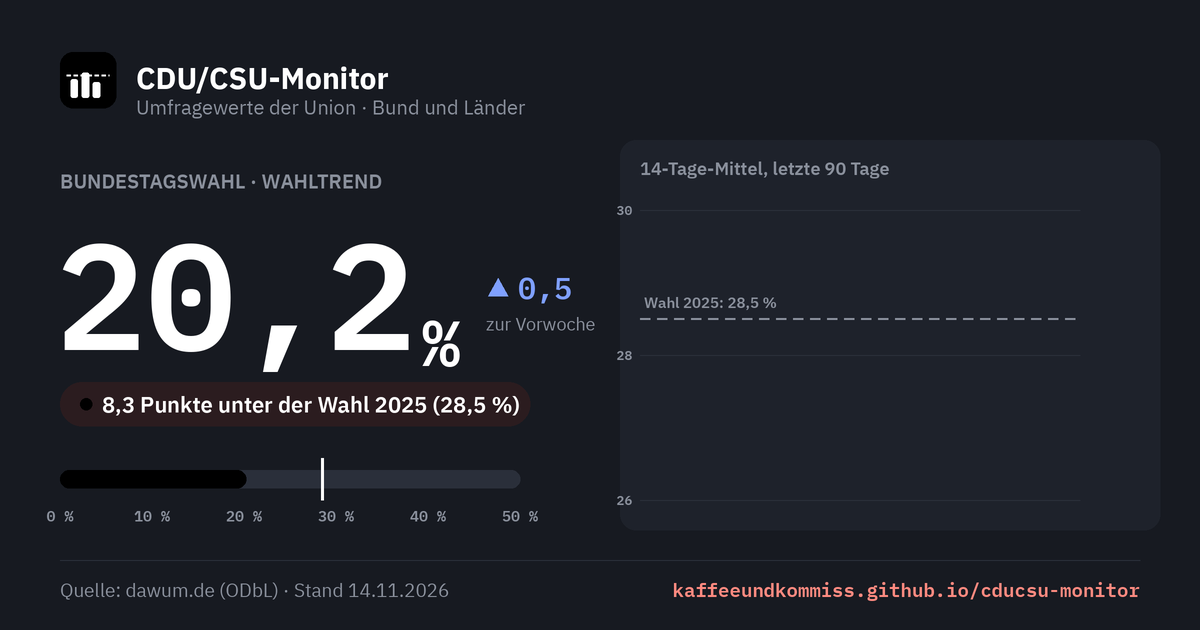
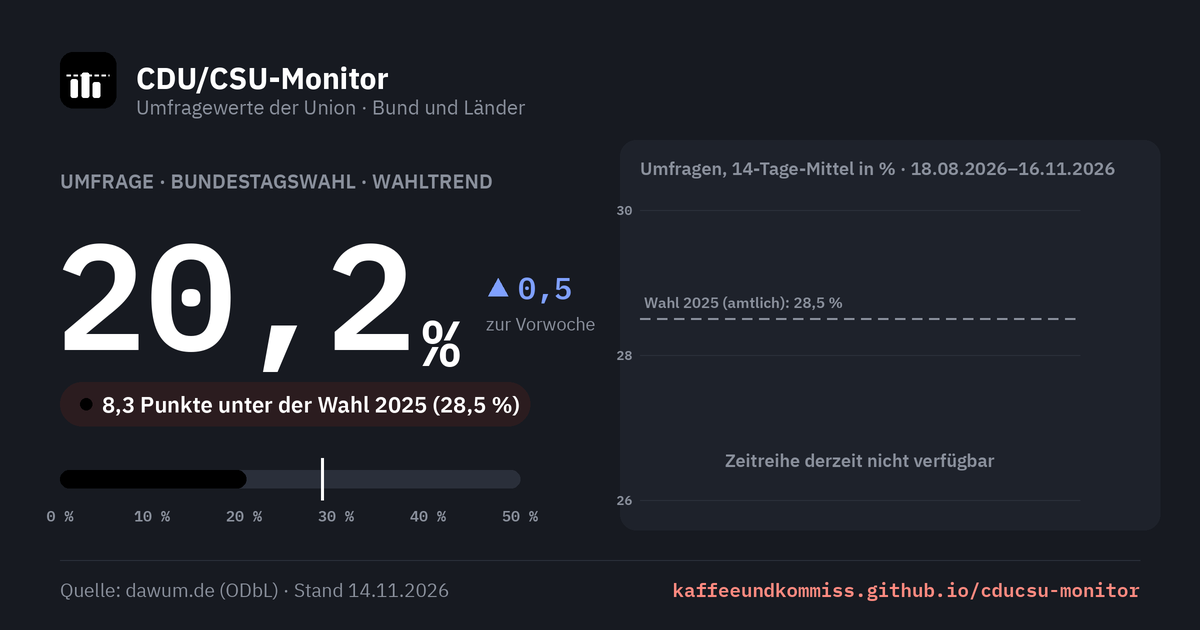
Diagramme eindeutig beschriften: Umfrage, amtliches Ergebnis, Chronik
Kennzeichen je Diagramm, Einheit, Zeitraum und Stand; Vorschaubilder
(og/make-og.py) mit derselben Kennzeichnung, damit das wöchentliche
Update die Beschriftung nicht überschreibt.

Claude-Session: https://claude.ai/code/session_01AuP7hKA5r64Vaqp6wB3yAR

diff --git a/index.html b/index.html
@@ -133,6 +133,9 @@
   .liste .lkopf{display:flex;justify-content:space-between;align-items:baseline;padding-bottom:8px;border-bottom:1px solid var(--line)}
   .liste .lkopf h3{margin:0;font-size:15px;font-weight:600}
   .liste .lkopf .skl{font-size:13px;color:var(--mute)}
+  .liste .llegende{margin:8px 0 0;font-size:13px;color:var(--mute)}
+  .abschnitt-legende{margin:6px 0 0;font-size:13px;color:var(--mute);max-width:46em}
+  .kachel .wart{font-size:12px;font-weight:600;color:var(--mute);margin-top:6px}
   .inst-zeile{display:grid;grid-template-columns:150px 1fr 60px;align-items:center;gap:14px;padding:7px 0;border-bottom:1px solid var(--hair)}
   .inst-zeile .nam{font-weight:500;font-size:14px;white-space:nowrap;overflow:hidden;text-overflow:ellipsis}
   .inst-zeile .dat{font-family:var(--mono);font-size:13px;color:var(--mute)}
@@ -240,7 +243,7 @@
   }
 .einstieg{margin:0 0 -20px;max-width:40em;color:var(--mute);font-size:16px;line-height:1.5}
 </style>
-<link rel="stylesheet" href="bereich.css?v=2">
+<link rel="stylesheet" href="bereich.css?v=3">
 </head>
 <body>
 <div class="kk-leiste"><div class="kk-in">
@@ -280,23 +283,28 @@
   <section id="bund-hero" aria-labelledby="bund-titel" data-teilen="Bundestagswahl"></section>
 
   <section id="bund-verlauf" class="karte verlauf" aria-labelledby="verlauf-titel" data-teilen="Zeitverlauf Bund" hidden>
+    <span class="art umfrage">Umfragen</span>
     <h2 id="verlauf-titel">CDU/CSU im Zeitverlauf · Bund</h2>
     <p class="sub" id="verlauf-sub">Punkte: Einzelumfragen · Linie: 14-Tage-Mittel</p>
     <div id="verlauf-chart" class="fv-chart"></div>
-    <p class="fv-quelle">Quelle: <a href="https://dawum.de/Bundestag/" rel="noopener">dawum.de</a> · 14-Tage-Mittel ungewichtet</p>
+    <p class="fv-quelle" id="verlauf-quelle">Quelle: <a href="https://dawum.de/Bundestag/" rel="noopener">dawum.de</a> (ODbL) · 14-Tage-Mittel ungewichtet</p>
   </section>
 
   <section id="anstehend" aria-labelledby="anstehend-titel" data-teilen="Anstehende Wahlen">
+    <span class="art umfrage">Umfragen</span>
     <div class="kopfzeile">
       <h2 id="anstehend-titel">Anstehende Wahlen</h2>
       <span class="hint">nächster Termin zuerst</span>
     </div>
+    <p class="abschnitt-legende">Große Zahl: Umfragewert in % (Wahltrend, sonst Ø der neuesten Umfrage je Institut), kein Ergebnis. Balken 0–50 %, gestrichelt: amtliches Ergebnis der letzten Wahl im Land.</p>
     <div class="kacheln" id="anstehend-grid" style="margin-top:16px"></div>
-    <p class="quelle">Quelle: <a href="https://dawum.de" rel="noopener">dawum.de</a> (ODbL) · ohne Wahltrend: Ø der neuesten Umfrage je Institut · Vergleich: amtliches Ergebnis der letzten Wahl im Land</p>
+    <p class="quelle">Quelle: <a href="https://dawum.de" rel="noopener">dawum.de</a> (ODbL) · ohne Wahltrend: Ø der neuesten Umfrage je Institut · Vergleich: amtliches Ergebnis der letzten Wahl im Land<span id="anstehend-stand"></span></p>
   </section>
 
   <section id="gelaufen" aria-labelledby="gelaufen-titel" data-teilen="Gelaufene Wahlen" data-quelle="amtliche Endergebnisse der Landeswahlleitungen" hidden>
+    <span class="art amtlich">Amtliche Ergebnisse</span>
     <div class="kopfzeile"><h2 id="gelaufen-titel">Gelaufene Wahlen</h2></div>
+    <p class="abschnitt-legende">Amtliche Endergebnisse in %, Quelle je Zeile. Zur Vorwahl: Veränderung in Prozentpunkten. Balken 0–50 %, gestrichelt: Ergebnis der Wahl davor.</p>
     <div class="karte tabelle" id="gelaufen-tabelle" style="margin-top:16px"></div>
   </section>
 </main>
@@ -480,6 +488,10 @@
     return '';
   }
 
+  // Kennzeichen über jedem Diagramm: Umfrage oder amtliches Ergebnis (Gestaltung in bereich.css).
+  const artMarke = (art) => art === 'amtlich'
+    ? '<span class="art amtlich">Amtliches Ergebnis</span>' : '<span class="art umfrage">Umfragen</span>';
+
   const gruppen = gruppiereEbenen(data.ebenen || [], NOW);
 
   // ---------- Bund-Hero ----------
@@ -506,6 +518,7 @@
 
     heroEl.innerHTML = `<div class="karte hero">
       <div class="zahlen">
+        ${artMarke(lz.art === 'ergebnis' ? 'amtlich' : 'umfrage')}
         <h2 class="ueberschrift" id="bund-titel">${esc(bund.name)} · ${
           lz.art === 'trend' ? 'Wahltrend' : lz.art === 'ergebnis' ? 'Amtliches Ergebnis' : 'Ø der Umfragen'}</h2>
         <div class="leitzahl">
@@ -521,7 +534,7 @@
             ${balken(lz.wert, ref, (ref ? '<div class="marklbl">Wahl ' + esc(ref.jahr) + ': ' + pz(ref.wert) + '</div>' : '') + punkte)}
           </div>
           <div class="achse"><span>0 %</span><span>10 %</span><span>20 %</span><span>30 %</span><span>40 %</span><span>50 %</span></div>
-          <div class="legende">Balken: ${lz.art === 'trend' ? 'Wahltrend' : 'Leitzahl'} · Punkte: Einzelumfragen${ref ? ' · gestrichelt: Ergebnis der Wahl ' + esc(ref.jahr) : ''}</div>
+          <div class="legende">Angaben in %. Balken: ${lz.art === 'trend' ? 'Wahltrend (Umfragen)' : lz.art === 'ergebnis' ? 'amtliches Ergebnis' : 'Ø der Umfragen'} · Punkte: Einzelumfragen${ref ? ' · gestrichelt: amtliches Ergebnis der Wahl ' + esc(ref.jahr) : ''}</div>
         </div>
         <dl class="kennzahlen">
           <div><dt>Ø neueste Umfrage je Institut</dt><dd>${lz.avg == null ? '–' : pz(lz.avg)}</dd></div>
@@ -539,6 +552,7 @@
           <div class="lkopf">
             <h3>Neueste Umfrage je Institut</h3><span class="skl">Skala 0–50 %</span>
           </div>
+          <p class="llegende">Balken: Umfragewert in %${ref ? ' · gestrichelt: amtliches Ergebnis der Wahl ' + esc(ref.jahr) : ''}</p>
           ${rows.length ? rows.slice().sort((a, b) => (b.datum || '').localeCompare(a.datum || '')).map((r) =>
             `<div class="inst-zeile">
                <div><div class="nam">${esc(r.institut)}</div><div class="dat">${dfmt(r.datum)}</div></div>
@@ -584,8 +598,17 @@
     }
     const linie = gleitendesMittel(punkte, FENSTER);
     const sub = document.getElementById('verlauf-sub');
-    if(sub) sub.textContent = `Letzte ${TAGE} Tage · Punkte: Einzelumfragen · `
-      + `Linie: ${FENSTER}-Tage-Mittel`;
+    // Zeitraum und Stand als Datum, nicht nur "letzte 90 Tage": ein Screenshot muss
+    // auch Wochen später noch sagen, welches Fenster er zeigt.
+    const refV = vw(bund);
+    const bisT = NOW || new Date();
+    const vonT = new Date(Date.UTC(bisT.getUTCFullYear(), bisT.getUTCMonth(), bisT.getUTCDate()) - TAGE * 864e5);
+    const isoT = (t) => new Date(t).toISOString().slice(0, 10);
+    if(sub) sub.textContent = `Umfragewerte Bundestagswahl in %, ${dfmt(isoT(vonT))}–${dfmt(isoT(bisT))} `
+      + `(letzte ${TAGE} Tage) · Punkte: Einzelumfragen · Linie: ${FENSTER}-Tage-Mittel`
+      + (refV ? ` · gestrichelt: amtliches Ergebnis ${refV.jahr}` : '');
+    const vq = document.getElementById('verlauf-quelle');
+    if(vq) vq.append(` · letzte Umfrage vom ${dfmt(isoT(punkte[punkte.length - 1].t))}`);
 
     const NS = 'http://www.w3.org/2000/svg';
     const el = (n, a, eltern) => { const e = document.createElementNS(NS, n);
@@ -664,7 +687,7 @@
       // Beschriftung der letzten Wahl erst nach den Punkten zeichnen: so liegt ihr Hof
       // über den Umfragepunkten und die Angabe bleibt auch am Handy lesbar.
       if(ref) el('text', {x: ml + 4, y: Y(ref.wert) - 6, 'font-size': 12, 'font-weight': 600,
-        class: 'fv-frei', fill: 'var(--fv-vorwahl)'}, svg).textContent = 'Wahl ' + ref.jahr + ': ' + fmt(ref.wert) + ' %';
+        class: 'fv-frei', fill: 'var(--fv-vorwahl)'}, svg).textContent = 'Wahl ' + ref.jahr + ' (amtlich): ' + fmt(ref.wert) + ' %';
 
       const letzte = linie[linie.length - 1];
       el('text', {x: Math.min(X(letzte.t) + 6, W - 4), y: Y(letzte.v), dy: '0.32em',
@@ -758,6 +781,7 @@
         </div>
         ${tage != null ? `<span class="tage">in ${tage} T.</span>` : ''}
       </div>
+      <div class="wart">${lz.art === 'ergebnis' ? 'Amtliches Ergebnis' : lz.art === 'trend' ? 'Umfrage · Wahltrend' : 'Umfrage · Ø'}</div>
       <div class="wert">
         <span class="num">${lz.wert == null ? '–' : pz(lz.wert)}</span>
         <span class="pill ${h.status}">${esc(datenhinweis ? 'nicht ausgewiesen' : h.kurz)}</span>
@@ -780,8 +804,8 @@
     document.getElementById('gelaufen-tabelle').innerHTML = `<table>
       <thead><tr>
         <th>Wahl</th><th>Datum</th>
-        <th style="text-align:right">Ergebnis</th>
-        ${mitTrend ? '<th style="text-align:right">Letzter Trend</th>' : ''}
+        <th style="text-align:right">Ergebnis (amtl.)</th>
+        ${mitTrend ? '<th style="text-align:right">Letzter Wahltrend (Umfrage)</th>' : ''}
         <th class="vgl" style="text-align:right">Zur Vorwahl</th>
         <th class="abstand">Ergebnis und Vorwahl</th>
       </tr></thead>
@@ -798,7 +822,7 @@
         return `<tr id="zeile-${esc(e.id)}">
           <td class="wahl">${esc(teileName(e.name).land)}${beleg}</td>
           <td class="mono">${dfmt(e.wahltermin)}</td>
-          <td class="erg">${lz.wert != null ? pz(lz.wert) + (erg.vorlaeufig ? ' *' : '') : '–'}${vgl
+          <td class="erg">${lz.wert != null ? pz(lz.wert) + (lz.art !== 'ergebnis' ? ' (Umfrage)' : erg.vorlaeufig ? ' *' : '') : '–'}${vgl
             ? '<span class="vgl-kurz">' + vgl + ' zu ' + esc(vw(e).jahr) + '</span>' : ''}</td>
           ${mitTrend ? `<td class="trend">${t.wert != null ? pz(t.wert) : '–'}</td>` : ''}
           <td class="vgl" title="${vgl ? 'Wahl ' + esc(vw(e).jahr) + ': ' + pz(vw(e).wert) : ''}">${vgl || '–'}</td>
@@ -808,6 +832,13 @@
       ${gelaufen.some((e) => (e.wahlergebnis || {}).vorlaeufig)
         ? '<p class="basis" style="padding:0 20px 14px">* vorläufiges amtliches Ergebnis</p>' : ''}`;
   }
+
+  const standSeite = SNAP ? 'Momentaufnahme ' + kwText(SNAP) : data.erstellt ? 'Stand ' + dfmt(data.erstellt) : '';
+  const ast = document.getElementById('anstehend-stand');
+  // Die Kacheln zeigen live abgerufene Umfragen, wenn dawum erreichbar war – dann gilt deren Stand.
+  const liveStand = !SNAP && db && db.Database && db.Database.Last_Update;
+  if(ast) ast.textContent = liveStand ? ' · Umfragen live, Datenbank-Stand ' + dfmt(liveStand)
+    : standSeite ? ' · ' + standSeite : '';
 
   // Link- und Bild-Knöpfe erst jetzt: die Abschnitte sind gerendert, und ein #Anker
   // aus einem geteilten Link kann angesprungen werden.

diff --git a/partei-seite.js b/partei-seite.js
@@ -15,6 +15,8 @@
       .map((b) => `<a href="${esc(b.url)}" rel="noopener">${esc(b.name)}</a>`);
     const hinweis = (d.belege_hinweis || {})[k];
     const teile = [links.length ? 'Quelle: ' + links.join(' · ') : '', hinweis ? esc(hinweis) : ''].filter(Boolean);
+    if(teile.length && d.stand && ['wahlen', 'zeitleiste', 'vorsitz'].includes(k))
+      teile.push('· Stand ' + dfmt(d.stand) + ' (zuletzt geprüft)');
     if(teile.length) p.innerHTML = teile.join(' '); else p.remove();
   });
 
@@ -66,11 +68,15 @@
   if(k && $('kennzahlen')){
     const regierung = d.wahlen.filter((w) => w.rolle === 'Regierung').length;
     document.getElementById('kennzahlen').innerHTML = [
-      ['Bestes Ergebnis', fmt(k.best.ergebnis) + ' %', 'Bundestagswahl ' + k.best.jahr, ''],
-      ['Letztes Ergebnis', fmt(k.letzte.ergebnis) + ' %', 'Bundestagswahl ' + k.letzte.jahr + ' · ' + k.letzte.rolle, ''],
+      ['Bestes Ergebnis', fmt(k.best.ergebnis) + ' %', 'Bundestagswahl ' + k.best.jahr + ' · amtlich', ''],
+      ['Letztes Ergebnis', fmt(k.letzte.ergebnis) + ' %', 'Bundestagswahl ' + k.letzte.jahr + ' · amtlich · danach ' + k.letzte.rolle, ''],
       ['In Regierung danach', regierung + ' von ' + k.anzahl, 'Wahlperioden nach den Wahlen ' + d.wahlen[0].jahr + '–' + k.letzte.jahr, ''],
     ].map(([l, n, s, c]) => `<div class="karte"><div class="lbl">${esc(l)}</div><div class="num ${c}">${esc(n)}</div><div class="sub">${esc(s)}</div></div>`).join('');
   }
+
+  // ---------- Zeitraum je Diagramm (Titel/Untertitel) ----------
+  if((d.wahlen || []).length && $('wahlen-titel'))
+    $('wahlen-titel').textContent = 'Bundestagswahlen ' + d.wahlen[0].jahr + '–' + d.wahlen[d.wahlen.length - 1].jahr;
 
   // ---------- Bundesvorsitzende: Kennzahlen und Tabelle ----------
   // Laufende Amtszeit zählt bis heute, deshalb einmal beim Laden berechnet.
@@ -104,6 +110,7 @@
     const mt = 4, mb = 24, zh = 24, H = mt + zeiten.length * zh + mb;
     svg.setAttribute('viewBox', `0 0 ${W} ${H}`);
     const von = Date.UTC(Math.min(...zeiten.map((z) => new Date(z.a).getUTCFullYear())), 0, 1), bis = Math.max(...zeiten.map((z) => z.b));
+    if($('vorsitz-zeitraum')) $('vorsitz-zeitraum').textContent = 'Zeitraum ' + new Date(von).getUTCFullYear() + ' bis heute, x-Achse in Jahren. ';
     const X = (t) => ml + (t - von) / (bis - von) * (W - ml - mr);
     const tip = tooltip(host);
     const schritt = schmal ? 20 : 10;
@@ -127,7 +134,7 @@
   function wahlen(){
     const host = document.getElementById('chart-wahlen'); host.replaceChildren();
     const rows = d.wahlen, W = Math.max(280, host.clientWidth), H = 250, schmal = W < 420;
-    const ml = 30, mr = 6, mt = 22, mb = 26;
+    const ml = schmal ? 30 : 42, mr = 6, mt = 22, mb = 26;
     const yMax = Math.max(16, Math.ceil(Math.max(...rows.map((r) => r.ergebnis)) / 10) * 10);
     const band = (W - ml - mr) / rows.length, bw = Math.min(32, band * 0.62);
     const X = (i) => ml + i * band + band / 2, Y = (v) => H - mb - v / yMax * (H - mt - mb);
@@ -136,7 +143,7 @@
     const tip = tooltip(host);
     for(let v = 0; v <= yMax; v += 10){
       el('line', {x1: ml, x2: W - mr, y1: Y(v), y2: Y(v), stroke: 'var(--line)'}, svg);
-      txt(svg, {x: ml - 6, y: Y(v), dy: '0.32em', 'text-anchor': 'end'}, v);
+      txt(svg, {x: ml - 6, y: Y(v), dy: '0.32em', 'text-anchor': 'end'}, schmal ? v : v + ' %');
     }
     rows.forEach((r, i) => {
       const b = el('rect', {x: X(i) - bw / 2, y: Y(r.ergebnis), width: bw, height: Y(0) - Y(r.ergebnis),
@@ -158,6 +165,7 @@
     const host = document.getElementById('chart-zeit'); host.replaceChildren();
     const jetzt = new Date();
     const von = Date.UTC(1998, 0, 1), bis = Date.UTC(jetzt.getUTCFullYear(), jetzt.getUTCMonth(), jetzt.getUTCDate());
+    if($('zeit-zeitraum')) $('zeit-zeitraum').textContent = 'Zeitraum ' + new Date(von).getUTCFullYear() + ' bis heute. ';
     const balken = PU.zeitBalken(d.zeitleiste, von, bis);
     const W = Math.max(280, host.clientWidth), ml = 4, mr = 4, mt = 4, mb = 24, lh = 26, kopf = 16;
     const H = mt + SPUREN.length * (lh + kopf + 4) + mb;

diff --git a/partei.html b/partei.html
@@ -33,7 +33,7 @@
 <link href="https://fonts.googleapis.com/css2?family=Barlow+Condensed:wght@500;600;700&family=IBM+Plex+Sans:wght@400;500;600;700&family=IBM+Plex+Mono:wght@400;500;600&display=swap" rel="stylesheet">
 <link rel="stylesheet" href="basis.css">
 <link rel="stylesheet" href="partei.css?v=2">
-<link rel="stylesheet" href="bereich.css?v=2">
+<link rel="stylesheet" href="bereich.css?v=3">
 </head>
 <body>
 <div class="kk-leiste"><div class="kk-in">
@@ -73,8 +73,9 @@
   <section class="kennzahlen" id="kennzahlen" aria-label="Kennzahlen"></section>
 
   <section class="karte diagramm" id="bundestagswahlen" aria-labelledby="wahlen-titel" data-teilen="Bundestagswahlen" data-quelle="Bundeswahlleiterin">
+    <span class="art amtlich">Amtliche Ergebnisse</span>
     <h2 id="wahlen-titel">Bundestagswahlen</h2>
-    <p class="sub">Zweitstimmen in Prozent. Farbe: Rolle in der folgenden Wahlperiode.</p>
+    <p class="sub">Amtliche Endergebnisse, keine Umfragen: Zweitstimmenanteil in %. Farbe: Rolle in der folgenden Wahlperiode.</p>
     <div class="chart" id="chart-wahlen"></div>
     <div class="legende" id="legende-wahlen"></div>
     <p class="quelle" data-beleg="wahlen"></p>
@@ -82,8 +83,9 @@
 
 
   <section class="karte diagramm" id="zeitleiste" aria-labelledby="zeit-titel" data-teilen="Vorsitz, Programme, Rolle im Bund" data-quelle="bpb, Bundeswahlleiterin">
+    <span class="art chronik">Chronik</span>
     <h2 id="zeit-titel">Vorsitz, Programme, Rolle im Bund</h2>
-    <p class="sub">Senkrechte Linien: Bundestagswahlen.</p>
+    <p class="sub"><span id="zeit-zeitraum"></span>Senkrechte Linien: Bundestagswahlen.</p>
     <div class="chart" id="chart-zeit"></div>
     <div class="legende" id="legende-zeit"></div>
     <dl class="zeit-schluessel" id="schluessel-zeit" hidden></dl>
@@ -97,8 +99,9 @@
     </div>
     <div class="kennzahlen" id="vorsitz-kennzahlen"></div>
     <div class="karte diagramm" id="vorsitzende" data-teilen="Parteivorsitz" data-quelle="CDU, bpb">
+      <span class="art chronik">Chronik</span>
       <h2 id="vorsitz-chart-titel">Amtszeiten im Zeitstrahl</h2>
-      <p class="sub">Amtsdauer in Jahren je Amtszeit. Schwarz: amtierend, bis heute gerechnet; grau: abgeschlossen. Die CSU-Vorsitzenden stehen in der Zeitleiste oben.</p>
+      <p class="sub"><span id="vorsitz-zeitraum"></span>Amtsdauer in Jahren je Amtszeit. Schwarz: amtierend, bis heute gerechnet; grau: abgeschlossen. Die CSU-Vorsitzenden stehen in der Zeitleiste oben.</p>
       <div class="chart" id="chart-vorsitz"></div>
       <details class="vtab">
         <summary>Alle Amtszeiten als Tabelle</summary>

diff --git a/tests/e2e/polls.spec.js b/tests/e2e/polls.spec.js
@@ -455,7 +455,7 @@ test.describe("Zeitverlauf Bund", () => {
 
   test("markiert die letzte Bundestagswahl gestrichelt und beschriftet sie", async ({ page }) => {
     await mitVerlauf(page);
-    await expect(page.locator("#verlauf-chart text", { hasText: "Wahl 2025: 4,3 %" })).toHaveCount(1);
+    await expect(page.locator("#verlauf-chart text", { hasText: "Wahl 2025 (amtlich): 4,3 %" })).toHaveCount(1);
     await expect(page.locator('#verlauf-chart line[stroke-dasharray]')).toHaveCount(1);
   });
 
@@ -523,7 +523,7 @@ test.describe("Zeitverlauf Bund", () => {
 
   test("nennt den Zeitraum in der Unterzeile", async ({ page }) => {
     await mitVerlauf(page);
-    await expect(page.locator("#verlauf-sub")).toContainText("Letzte 90 Tage");
+    await expect(page.locator("#verlauf-sub")).toContainText("letzte 90 Tage");
   });
 
   test.describe("mobil", () => {
@@ -564,5 +564,24 @@ test.describe("Zeitverlauf Bund", () => {
       expect(tip.y).toBeGreaterThanOrEqual(chart.y - 1);
       expect(tip.y + tip.height).toBeLessThanOrEqual(chart.y + chart.height + 1);
     });
+  });
+});
+
+// Umfragewerte, Wahlergebnisse und Zeitverlauf dürfen nicht verwechselt werden:
+// jeder Abschnitt trägt ein Kennzeichen als Text, Kacheln und Tabelle zusätzlich je Wert.
+test.describe("Kennzeichnung der Diagramme", () => {
+  test("Umfragen und amtliche Ergebnisse sind je Abschnitt gekennzeichnet", async ({ page }) => {
+    await seite(page);
+    await expect(page.locator("#bund-hero .art")).toHaveText("Umfragen");
+    await expect(page.locator("#bund-verlauf .art")).toHaveText("Umfragen");
+    await expect(page.locator("#anstehend .art")).toHaveText("Umfragen");
+    await expect(page.locator("#gelaufen .art")).toHaveText("Amtliche Ergebnisse");
+    await expect(page.locator("#gelaufen-tabelle thead")).toContainText("Ergebnis (amtl.)");
+    await expect(page.locator("#anstehend .kachel .wart").first()).toContainText("Umfrage");
+  });
+
+  test("die Quelle der Kacheln nennt den Stand", async ({ page }) => {
+    await seite(page);
+    await expect(page.locator("#anstehend .quelle")).toContainText("Stand");
   });
 });

diff --git a/tests/e2e/partei.spec.js b/tests/e2e/partei.spec.js
@@ -73,3 +73,16 @@ test("Zeitleiste am Desktop: Schlüssel nur für Spuren, deren Balken zu schmal 
   const schl = page.locator("#schluessel-zeit");
   await expect(schl).not.toContainText("Rolle im Bund");  // deckt die Farblegende ab
 });
+
+test("Diagramme der Parteiseite: Kennzeichen, Einheit, Zeitraum und Stand", async ({ page }) => {
+  await page.goto("/partei.html");
+  await expect(page.locator("#chart-wahlen rect").first()).toBeVisible();
+  await expect(page.locator("#bundestagswahlen .art")).toHaveText("Amtliche Ergebnisse");
+  await expect(page.locator("#wahlen-titel")).toHaveText(/^Bundestagswahlen \d{4}–\d{4}$/);
+  await expect(page.locator("#chart-wahlen text", { hasText: /^0 %$/ })).toHaveCount(1);
+  await expect(page.locator("#bundestagswahlen .quelle")).toContainText("Stand");
+  await expect(page.locator("#zeitleiste .art")).toHaveText("Chronik");
+  await expect(page.locator("#zeit-zeitraum")).toContainText("bis heute");
+  await expect(page.locator("#vorsitzende .art")).toHaveText("Chronik");
+  await expect(page.locator("#vorsitz-zeitraum")).toContainText("bis heute");
+});

diff --git a/bereich.css b/bereich.css
@@ -50,3 +50,12 @@
 
 /* Monitorname ist auf der Umfrageseite die Hauptüberschrift (h1) */
 .marke h1.name { margin: 0 }
+
+/* Kennzeichen über Diagrammen (22.11.2026): Umfrage, amtliches Ergebnis oder Chronik.
+   Als Text, nicht nur als Farbe, damit es auch in Graustufen und auf Screenshots eindeutig ist.
+   Umfragen gestrichelt (Schätzung), amtliche Ergebnisse vollflächig (festgestellt). */
+.art { display: inline-block; margin: 0 0 8px; padding: 3px 7px; font: 600 11px/1.3 var(--mono, monospace);
+  letter-spacing: .08em; text-transform: uppercase; border: 1px solid; border-radius: 0; white-space: nowrap }
+.art.umfrage { color: var(--kk-akzent, #1E4FD8); border-style: dashed; background: #FFFFFF }
+.art.amtlich { color: #FFFFFF; background: #000000; border-color: #000000 }
+.art.chronik { color: #555555; border-color: #D6D6D6; background: #FFFFFF }

diff --git a/tests/e2e/teilen.spec.js b/tests/e2e/teilen.spec.js
@@ -65,7 +65,7 @@ test.describe("Belege und Einordnung", () => {
 
   test("ohne Trendwerte gibt es keine leere Trend-Spalte", async ({ page }) => {
     await laden(page);
-    await expect(page.locator("#gelaufen-tabelle th")).not.toContainText(["Letzter Trend"]);
+    await expect(page.locator("#gelaufen-tabelle th")).not.toContainText(["Letzter Wahltrend"]);
   });
 
   test("ein Wert aus nur einer Umfrage ist als wenig belastbar markiert, auch am Handy", async ({ page }) => {

diff --git a/og/make-og.py b/og/make-og.py
@@ -132,7 +132,7 @@ def bild_umfragen(data, pfad):
     c = Leinwand()
     c.kopf("Umfragewerte der Union · Bund und Länder")
 
-    c.text(60, 168, ("Bundestagswahl · " + art).upper(), HALB(20), GRAU)
+    c.text(60, 168, ("Umfrage · Bundestagswahl · " + art).upper(), HALB(20), GRAU)
     num = "–" if wert is None else fmt(wert)
     c.text(56, 196, num, MONO(150), WEISS)
     nx = 56 + c.breite(num, MONO(150))
@@ -179,7 +179,8 @@ def bild_umfragen(data, pfad):
     linie, ab, bis = mittel_14(((bund.get("verlauf") or {}).get("rows") or []), stichtag=erstellt)
     gx0, gx1, gy0, gy1 = 640, 1140, 190, 500
     c.rect(gx0 - 20, gy0 - 50, gx1 + 20, gy1 + 30, "#1E222B", 16)
-    c.text(gx0, gy0 - 22, "14-Tage-Mittel, letzte 90 Tage", HALB(18), GRAU, "lm")
+    c.text(gx0, gy0 - 22, f"Umfragen, 14-Tage-Mittel in % · {dfmt(ab.isoformat())}–{dfmt(bis.isoformat())}",
+           HALB(18), GRAU, "lm")
     werte = [v for _, v in linie] + ([rw] if rw is not None else [])
     ymin = max(0, int(min(werte or [0])) - 2)
     ymax = max(ymin + 4, int(max(werte or [4])) + 2)
@@ -190,11 +191,13 @@ def bild_umfragen(data, pfad):
         c.text(gx0 - 8, Y(v), f"{v}", MONO(13), GRAU, "rm")
     if rw is not None:
         c.gestrichelt(gx0, gx1 - 60, Y(rw), GRAU, 2)
-        c.text(gx0 + 4, Y(rw) - 16, f"Wahl {ref.get('jahr', '')}: {fmt(rw)} %", HALB(15), GRAU, "lm")
+        c.text(gx0 + 4, Y(rw) - 16, f"Wahl {ref.get('jahr', '')} (amtlich): {fmt(rw)} %", HALB(15), GRAU, "lm")
     if len(linie) >= 2:
         c.line([(X(t), Y(v)) for t, v in linie], WEISS, 3.5)
         t, v = linie[-1]
         c.text(X(t) + 10, Y(v), fmt(v) + " %", MONO(20), WEISS, "lm")
+    else:
+        c.text((gx0 + gx1 - 60) / 2, gy1 - 40, "Zeitreihe derzeit nicht verfügbar", HALB(18), GRAU, "mm")
 
     c.fuss(f"Quelle: dawum.de (ODbL) · Stand {dfmt(stand) if stand else 'unbekannt'}")
     c.speichern(pfad)
@@ -205,7 +208,7 @@ def bild_partei(partei, pfad):
     c.kopf("Die Union auf Bundesebene")
     wahlen = partei["wahlen"]
     erste, letzte = wahlen[0], wahlen[-1]
-    c.text(60, 168, f"BUNDESTAGSWAHLEN {erste['jahr']}–{letzte['jahr']} · ZWEITSTIMMEN", HALB(20), GRAU)
+    c.text(60, 168, f"BUNDESTAGSWAHLEN {erste['jahr']}–{letzte['jahr']} · AMTLICHE ERGEBNISSE IN %", HALB(20), GRAU)
     beste = max(wahlen, key=lambda w: w["ergebnis"])
     c.text(60, 214, f"Bestes Ergebnis {fmt(beste['ergebnis'])} % ({beste['jahr']})", HALB(26), WEISS)
     c.text(60, 254, f"Zuletzt {fmt(letzte['ergebnis'])} % ({letzte['jahr']})", HALB(26), "#FF8A80")

diff --git a/README.md b/README.md
@@ -11,3 +11,10 @@ pip install -r requirements-dev.txt && pytest              # update.py
 npm install && npm test                                    # monitor-utils.js, partei-utils.js (Vitest)
 npm install && npx playwright install chromium && npm run test:e2e   # index.html, partei.html (Playwright)
 ```
+
+## Diagrammbeschriftung (seit 22.11.2026)
+
+Jedes Diagramm trägt ein Kennzeichen als Text (`.art` in `bereich.css`): **Umfragen** (gestrichelter Rahmen),
+**Amtliche Ergebnisse** (schwarz) oder **Chronik**. Dazu Titel, Einheit (%), Zeitraum, Quelle und Stand.
+Die Texte stehen in `index.html`, `partei.html`, `partei-seite.js` und `og/make-og.py`; `update.py` schreibt nur Daten
+und überschreibt sie nicht. Vergleichslinien heißen „Wahl JJJJ (amtlich)“.
